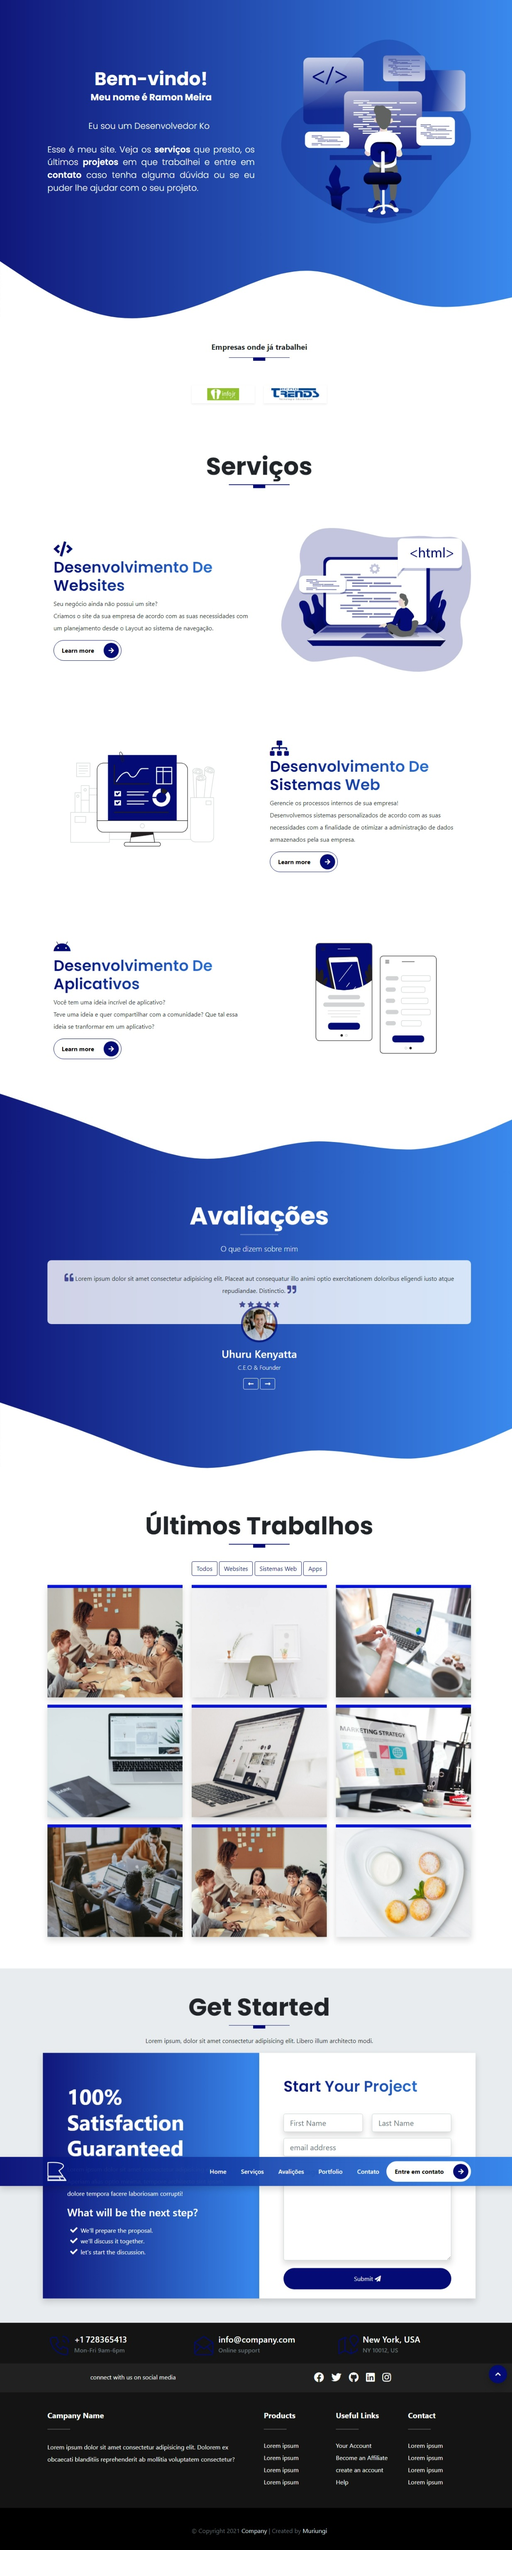
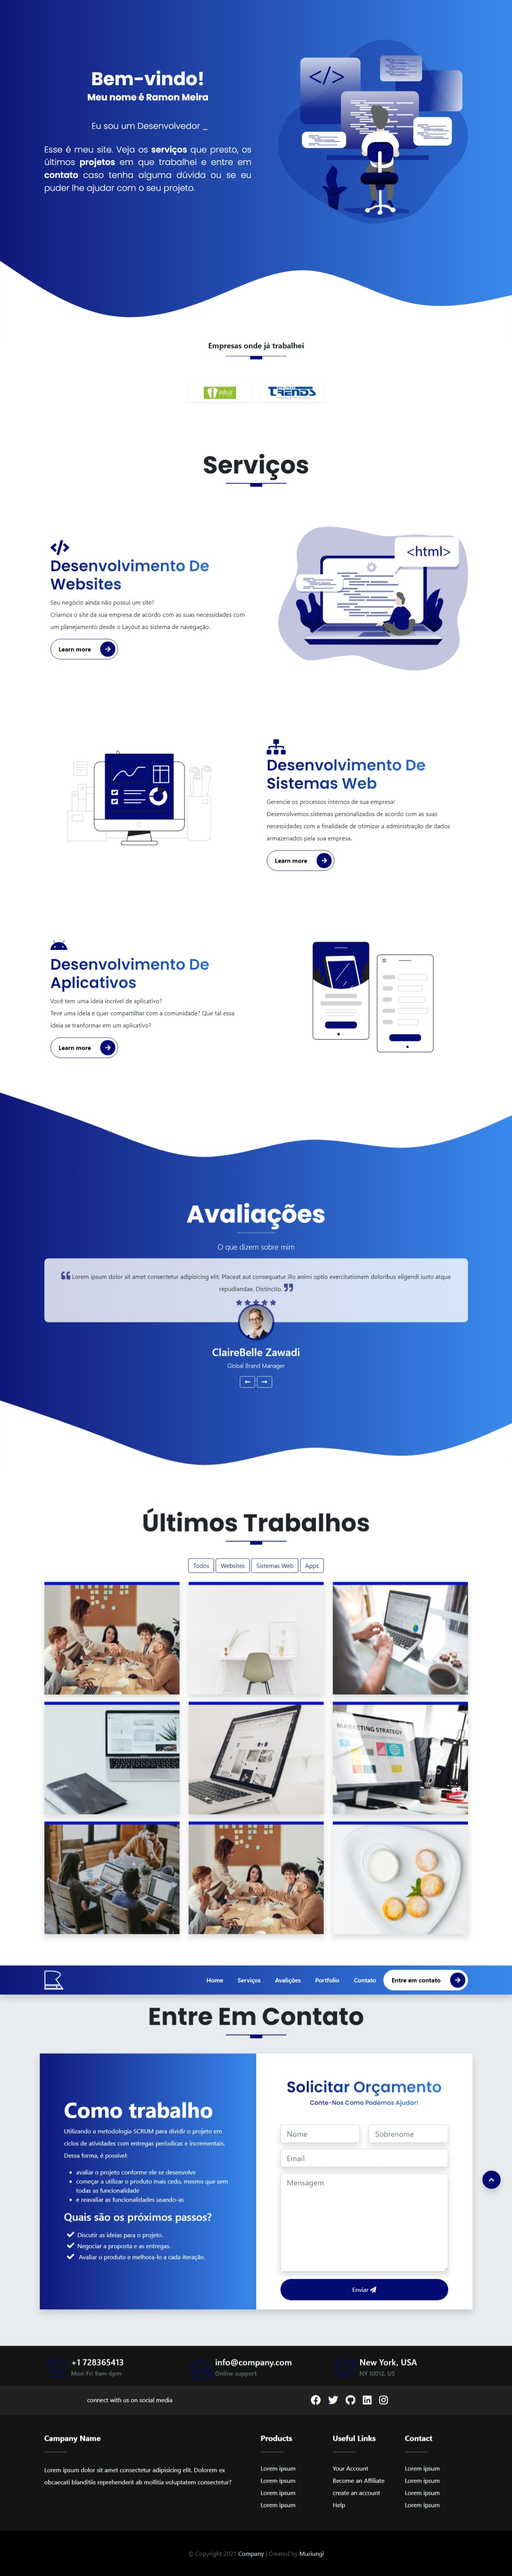
0.8.0 - Update: Get started section

diff --git a/index.html b/index.html
@@ -789,56 +789,69 @@
             <div class="container">
                 <div class="row text-center">
                     <h1 class="display-3 fw-bold text-capitalize">
-                        Get started
+                        Entre em contato
                     </h1>
                     <div class="heading-line"></div>
-                    <p class="lh-lg">
-                        Lorem ipsum, dolor sit amet consectetur adipisicing
-                        elit. Libero illum architecto modi.
-                    </p>
+                    <!-- <p class="lh-lg">Lorem ipsum dolor sit, amet consectetur adipisicing elit. Laudantium itaque quos tempore.</p> -->
                 </div>
 
                 <!-- START THE CTA CONTENT  -->
-                <div class="row text-white">
-                    <div class="col-12 col-lg-6 gradient shadow p-3">
-                        <div class="cta-info w-100">
-                            <h4 class="display-4 fw-bold">
-                                100% Satisfaction Guaranteed
-                            </h4>
+                <div class="row text-white mt-4">
+                    <div class="col-12 col-lg-6 gradient shadow p-3 wrapper">
+                        <div class="cta-info w-100 centered">
+                            <h4 class="display-4 fw-bold">Como trabalho</h4>
                             <p class="lh-lg">
-                                Lorem ipsum dolor sit amet consectetur
-                                adipisicing elit. Aperiam alias optio minima,
-                                tempore architecto sint ipsam dolore tempora
-                                facere laboriosam corrupti!
+                                Utilizando a metodologia SCRUM para dividir o
+                                projeto em ciclos de atividades com entregas
+                                períodicas e incrementais. Dessa forma, é
+                                possível:
                             </p>
+                            <ul class="">
+                                <li>
+                                    avaliar o projeto conforme ele se desenvolve
+                                </li>
+                                <li>
+                                    começar a utilizar o produto mais cedo,
+                                    mesmo que sem todas as funcionalidade
+                                </li>
+                                <li>
+                                    e reavaliar as funcionalidades usando-as
+                                </li>
+                            </ul>
                             <h3 class="display-3--brief">
-                                What will be the next step?
+                                Quais são os próximos passos?
                             </h3>
                             <ul class="cta-info__list">
-                                <li>We'll prepare the proposal.</li>
-                                <li>we'll discuss it together.</li>
-                                <li>let's start the discussion.</li>
+                                <li>Discutir as ideias para o projeto.</li>
+                                <li>Negociar a proposta e as entregas.</li>
+                                <li>
+                                    Avaliar o produto e melhora-lo a cada
+                                    iteração.
+                                </li>
                             </ul>
                         </div>
                     </div>
                     <div class="col-12 col-lg-6 bg-white shadow p-3">
                         <div class="form w-100 pb-2">
-                            <h4 class="display-3--title mb-5">
-                                start your project
+                            <h3 class="display-3--title text-center">
+                                Solicitar orçamento
+                            </h3>
+                            <h4 class="display-3--subtitle text-center mb-5">
+                                Conte-nos como podemos ajudar!
                             </h4>
                             <form action="#" class="row">
-                                <div class="col-lg-6 col-md mb-3">
+                                <div class="col-lg-6 col-md-6 mb-3">
                                     <input
                                         type="text"
-                                        placeholder="First Name"
+                                        placeholder="Nome"
                                         id="inputFirstName"
                                         class="shadow form-control form-control-lg"
                                     />
                                 </div>
-                                <div class="col-lg-6 col-md mb-3">
+                                <div class="col-lg-6 col-md-6 mb-3">
                                     <input
                                         type="text"
-                                        placeholder="Last Name"
+                                        placeholder="Sobrenome"
                                         id="inputLastName"
                                         class="shadow form-control form-control-lg"
                                     />
@@ -846,7 +859,7 @@
                                 <div class="col-lg-12 mb-3">
                                     <input
                                         type="email"
-                                        placeholder="email address"
+                                        placeholder="Email"
                                         id="inputEmail"
                                         class="shadow form-control form-control-lg"
                                     />
@@ -854,7 +867,7 @@
                                 <div class="col-lg-12 mb-3">
                                     <textarea
                                         name="message"
-                                        placeholder="message"
+                                        placeholder="Mensagem"
                                         id="message"
                                         rows="8"
                                         class="shadow form-control form-control-lg"
@@ -865,7 +878,7 @@
                                         type="button"
                                         class="btn btn-primary rounded-pill pt-3 pb-3"
                                     >
-                                        submit
+                                        Enviar
                                         <i class="fas fa-paper-plane"></i>
                                     </button>
                                 </div>

diff --git a/assets/css/style.css b/assets/css/style.css
@@ -10861,6 +10861,21 @@ textarea.form-control-lg {
     font-size: 2.5rem;
   }
 }
+.display-3--subtitle {
+  font-size: calc(0.7rem + 1vw);
+  text-transform: capitalize;
+  font-weight: 600;
+  font-family: "Poppins", sans-serif;
+  background-image: linear-gradient(to right, #040b74, #3084ed);
+  background-clip: text;
+  -webkit-background-clip: text;
+  -webkit-text-fill-color: transparent;
+}
+@media (min-width: 992px) {
+  .display-3--subtitle {
+    font-size: 1rem;
+  }
+}
 
 .border-right {
   border-right: 0;
@@ -10874,6 +10889,15 @@ textarea.form-control-lg {
 
 .gradient {
   background: linear-gradient(to right, rgba(4, 11, 116, 0.95), rgba(48, 132, 237, 0.95));
+}
+
+.wrapper {
+  display: table;
+}
+
+.centered {
+  display: table-cell;
+  vertical-align: middle;
 }
 
 .menu {
@@ -11096,7 +11120,7 @@ textarea.form-control-lg {
 }
 
 .get-started {
-  padding: 4rem 0;
+  padding: 6rem 0;
   background-color: #e9ecef;
 }
 
@@ -11112,7 +11136,7 @@ textarea.form-control-lg {
   padding-left: 0.5rem;
   margin-bottom: 0.7rem;
 }
-.cta-info__list li::before {
+.cta-info__list li:before {
   font-family: "Font Awesome 5 Free";
   content: "";
   font-weight: 600;

diff --git a/scss/components/_typography.scss b/scss/components/_typography.scss
@@ -79,6 +79,22 @@
             font-size: 2.5rem;
         }
     }
+
+    &--subtitle {
+        font-size: calc(0.7rem + 1vw);
+        text-transform: capitalize;
+        font-weight: 600;
+        font-family: 'Poppins', sans-serif;
+        // display: inline-block;
+        background-image: linear-gradient(to right, $primary, $secondary);
+        background-clip: text;
+        -webkit-background-clip: text;
+        -webkit-text-fill-color: transparent;
+
+        @include media-breakpoint-up(lg) {
+            font-size: 1rem;
+        }
+    }
 }
 
 // BORDER RIGHT
@@ -94,4 +110,12 @@
 // GRADIENT BG
 .gradient {
     @include gradient;
+}
+
+.wrapper {
+    display: table;
+}
+.centered {
+    display: table-cell;
+    vertical-align: middle;
 }

diff --git a/scss/sections/_get-started.scss b/scss/sections/_get-started.scss
@@ -1,9 +1,8 @@
 @use '../custom' as *;
 @use '../components/mixins' as *;
 
-
 .get-started {
-    padding: 4rem 0;
+  padding: 6rem 0;
     background-color: $gray-200;
 }
 
@@ -19,9 +18,9 @@
         padding-left: 0.5rem;
         margin-bottom: 0.7rem;
 
-        li::before {
-            font-family: "Font Awesome 5 Free";
-            content: "\f00c";
+    li:before {
+      font-family: 'Font Awesome 5 Free';
+      content: '\f00c';
             font-weight: 600;
             margin-right: 0.5rem;
             font-size: 1.2rem;

diff --git a/README.md b/README.md
@@ -28,6 +28,8 @@
 
 ## Versioning ([SemVer](http://semver.org/))
 
+-   0.8.0
+    -   Update: Get started section
 -   0.7.0
     -   Update: portfolio section
 -   0.6.0
@@ -38,6 +40,7 @@
     -   Update: Companies section
 -   0.3.0
     -   Update: Intro section
+	-   Feature: intro animation
 -   0.2.0
     -   Update: navbar
     -   Remove: FAQ section
@@ -50,9 +53,7 @@
 
 ## Backlog
 
--   Update: Get started section
 -   Update: Footer
--   Feature: intro animation
 -   Fix: add real testimonials
 -   Update: add real projects to portfolio
 -   Feature: filter of products on portfolio
